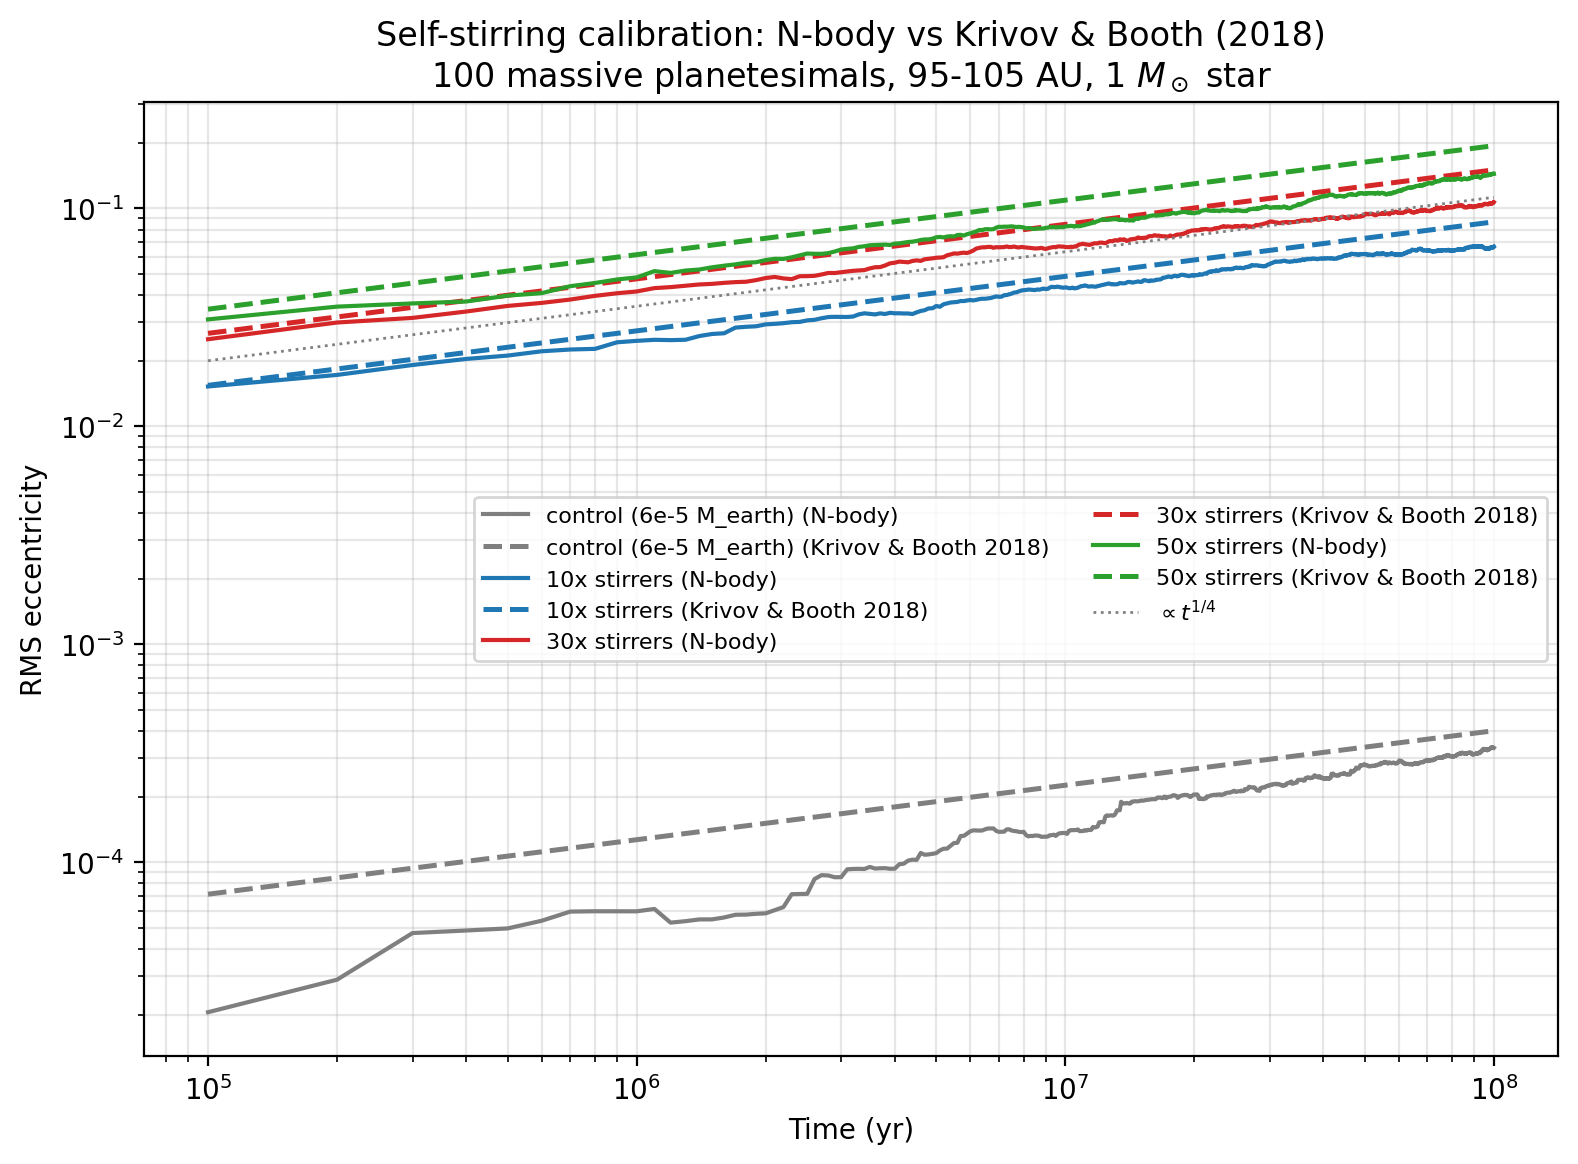
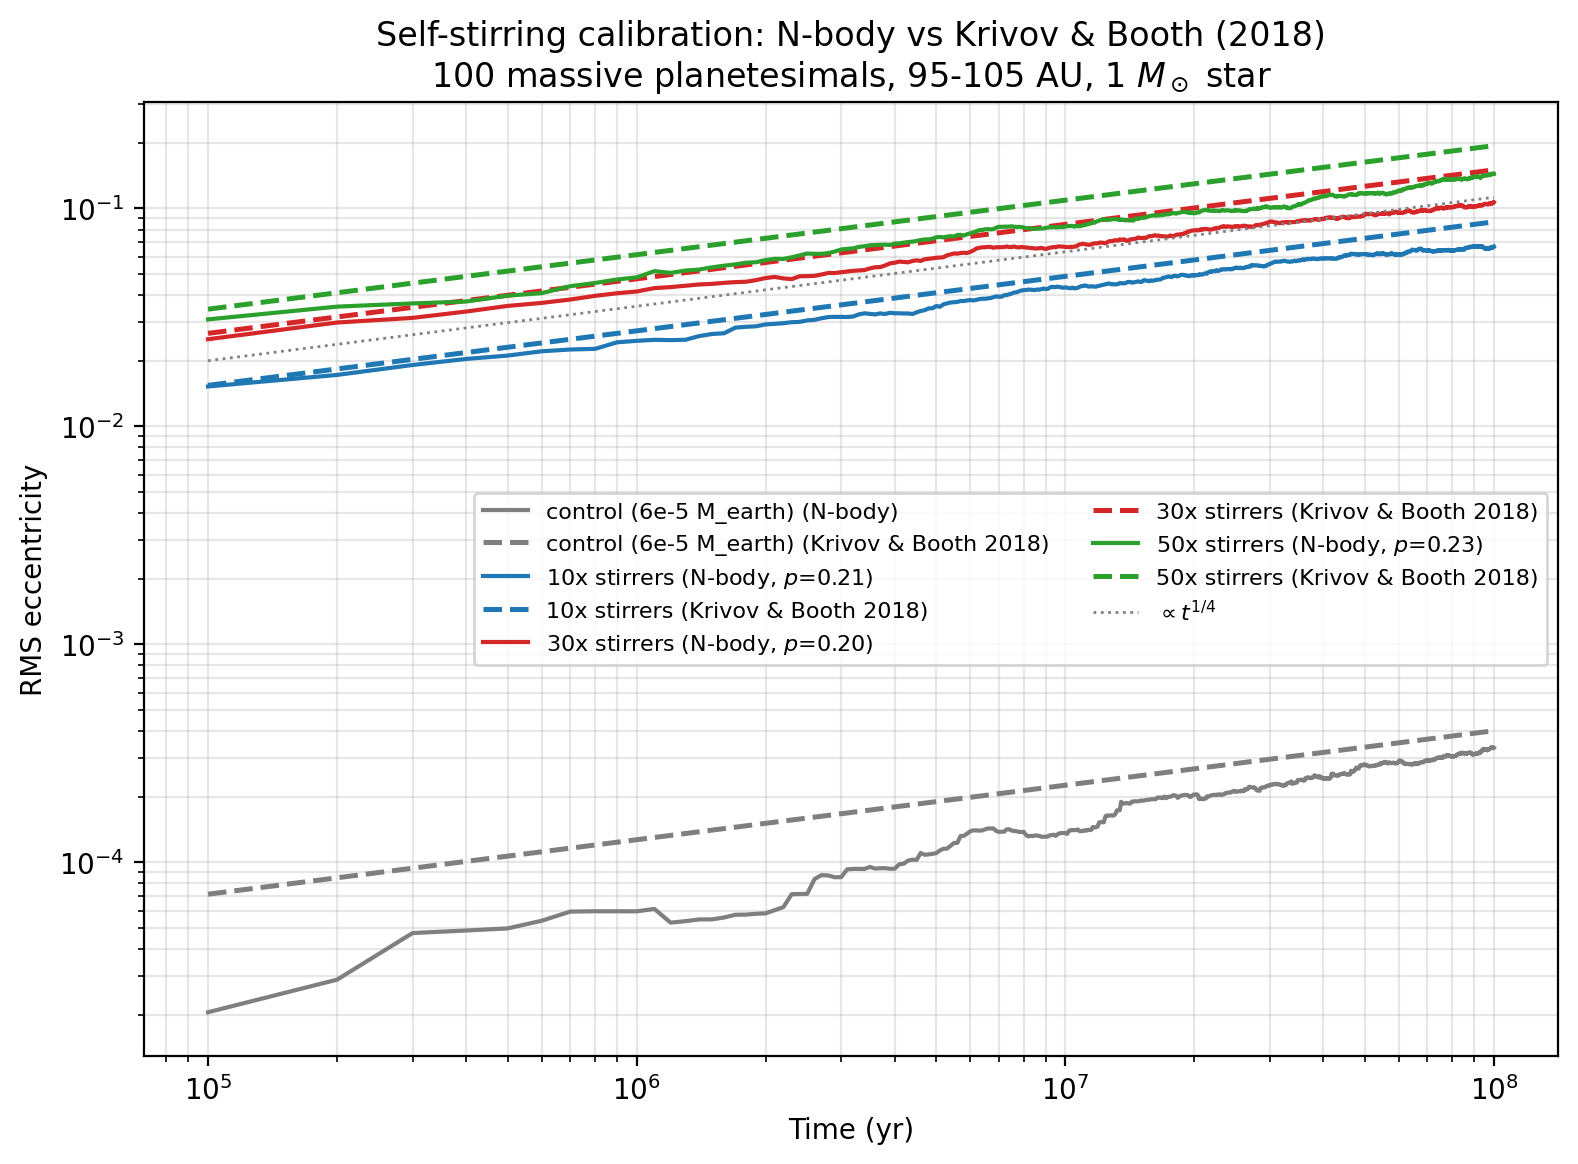
Add power-law fits to the Krivov self-stirring calibration
Fit each N-body RMS(e) curve as e = A t^p (degree-1 log-log polyfit).
The fitted slope goes into the figure legends; the full breakdown
(free fit, split-half slopes, slope-locked p=1/4 refit, raw analytic
residual) is written to a new companion markdown file the script
generates alongside the PNGs.

Claude-Session: https://claude.ai/code/session_01PQb1QESCVaoNf5B1TCTFn8

Changed region(s): [[0.3105, 0.4021, 0.9937, 0.5876]]

diff --git a/calibration/plot_kirvov_calibration.py b/calibration/plot_kirvov_calibration.py
@@ -21,7 +21,13 @@ M = Mdisc / 100 and the measured RMS(e) is that of the stirrer population
 itself. Each run therefore gets its own analytic curve (they differ only by
 the M * Mdisc product, i.e. RMS(e) ~ (M Mdisc)^(1/4)).
 
+Also fits each N-body curve as a power law RMS(e) = A t^p by a degree-1
+polyfit in log-log space; the fitted slope goes into the figure legend and the
+full breakdown into a companion markdown file.
+
 Writes: calibration/rmse_kirvov_calibration.png
+        calibration/rmse_kirvov_calibration_stir_only.png
+        calibration/rmse_kirvov_calibration_fits.md
 """
 
 from pathlib import Path
@@ -66,6 +72,9 @@ FIGURES = {
 N_MP = 100
 SNAPSHOT_STRIDE = 10  # subsample the 10001-snapshot archives for speed
 
+NO_FIT = {"SS_100MP_100Myr_6e-5Mearth"}  # control curve is noise, don't fit it
+FITS_MD = "rmse_kirvov_calibration_fits.md"
+
 
 def rms_e_vs_time(archive_path, stride=SNAPSHOT_STRIDE):
     """RMS eccentricity of the massive planetesimals at each sampled snapshot.
@@ -109,22 +118,61 @@ def krivov_rms_e(times_yr, m_disc_earth, n_stirrers=N_MP):
     return (2.0 * times_yr * t_inv) ** 0.25
 
 
-def make_plot(run_names, save_path):
-    """Draw the calibration figure for the given subset of runs."""
+def powerlaw_fit(times_yr, rms_e, m_disc_earth):
+    """Degree-1 log-log polyfit of RMS(e) vs time, plus reference residuals.
+
+    Returns a dict with the free power-law fit (slope ``p``, amplitude ``a`` in
+    ``e = a t^p``, residual ``rmse`` in dex), the slope over the first and second
+    half of the samples (``p_early`` / ``p_late``, to expose curvature), the
+    amplitude of a slope-locked ``p = 1/4`` fit (``a_025`` / ``rmse_025``), and
+    the residual of the raw Krivov & Booth curve for this run (``rmse_analytic``).
+    """
+    x, y = np.log10(times_yr), np.log10(rms_e)
+
+    p, log_a = np.polyfit(x, y, 1)
+    rmse = float(np.sqrt(np.mean((y - (p * x + log_a)) ** 2)))
+
+    half = len(x) // 2
+    p_early = float(np.polyfit(x[:half], y[:half], 1)[0])
+    p_late = float(np.polyfit(x[half:], y[half:], 1)[0])
+
+    log_a_025 = float(np.mean(y - 0.25 * x))
+    rmse_025 = float(np.sqrt(np.mean((y - (0.25 * x + log_a_025)) ** 2)))
+
+    analytic = np.log10(krivov_rms_e(times_yr, m_disc_earth))
+    rmse_analytic = float(np.sqrt(np.mean((y - analytic) ** 2)))
+
+    return {
+        "p": float(p),
+        "a": float(10.0 ** log_a),
+        "rmse": rmse,
+        "p_early": p_early,
+        "p_late": p_late,
+        "a_025": 10.0 ** log_a_025,
+        "rmse_025": rmse_025,
+        "rmse_analytic": rmse_analytic,
+    }
+
+
+def make_plot(run_names, save_path, series, fits):
+    """Draw the calibration figure for the given subset of runs.
+
+    ``series`` maps run name -> (times, rms_e) with t = 0 already dropped;
+    ``fits`` maps run name -> powerlaw_fit(...) dict for the runs that get one.
+    """
     fig, ax = plt.subplots(figsize=(8, 6))
 
     last_times = None
     for run_name in run_names:
         label, color, m_disc_earth = RUNS[run_name]
-        archive = OUTPUTS / run_name / f"{run_name}.bin"
-        times, rms_e = rms_e_vs_time(archive)
-
-        # drop t = 0 for the log axis
-        mask = times > 0
-        times, rms_e = times[mask], rms_e[mask]
+        times, rms_e = series[run_name]
         last_times = times
 
-        ax.plot(times, rms_e, color=color, lw=1.5, label=f"{label} (N-body)")
+        nbody_label = f"{label} (N-body)"
+        if run_name in fits:
+            nbody_label = f"{label} (N-body, $p$={fits[run_name]['p']:.2f})"
+
+        ax.plot(times, rms_e, color=color, lw=1.5, label=nbody_label)
         ax.plot(
             times,
             krivov_rms_e(times, m_disc_earth),
@@ -156,10 +204,82 @@ def make_plot(run_names, save_path):
     print(f"Saved: {save_path}")
 
 
+def write_fits_markdown(path, fits):
+    """Write the per-run power-law fit breakdown as a markdown file."""
+    lines = [
+        "# Krivov self-stirring calibration: power-law fits",
+        "",
+        "Each N-body RMS(e) curve from `plot_kirvov_calibration.py` fitted as a "
+        "power law `e = A t^p` via a degree-1 `np.polyfit` of `log10(e)` on "
+        "`log10(t)` over the full 1e5-1e8 yr archive (subsampled by "
+        f"`SNAPSHOT_STRIDE = {SNAPSHOT_STRIDE}`). The first- / second-half "
+        "slopes split the samples in time and expose curvature away from a "
+        "single power law. Residuals are RMS of the `log10(e)` misfit, in dex.",
+        "",
+        "## Free power-law fit",
+        "",
+        "| run | slope $p$ | amplitude $A$ | residual (dex) | $p$ (first half) | $p$ (second half) |",
+        "| --- | --- | --- | --- | --- | --- |",
+    ]
+    for run_name, f in fits.items():
+        label = RUNS[run_name][0]
+        lines.append(
+            f"| {label} | {f['p']:.3f} | {f['a']:.3e} | {f['rmse']:.3f} "
+            f"| {f['p_early']:.3f} | {f['p_late']:.3f} |"
+        )
+
+    lines += [
+        "",
+        "## Slope locked to the analytic $p = 1/4$",
+        "",
+        "| run | $A$ at $p = 1/4$ | residual (dex) | raw Krivov & Booth residual (dex) |",
+        "| --- | --- | --- | --- |",
+    ]
+    for run_name, f in fits.items():
+        label = RUNS[run_name][0]
+        lines.append(
+            f"| {label} | {f['a_025']:.3e} | {f['rmse_025']:.3f} "
+            f"| {f['rmse_analytic']:.3f} |"
+        )
+
+    lines += [
+        "",
+        "The fitted slopes sit just below the analytic 1/4 (~0.20-0.23). "
+        "Locking the slope to 1/4 and refitting only the amplitude matches the "
+        "N-body curves to ~0.02 dex, versus ~0.08-0.14 dex for the un-rescaled "
+        "Krivov & Booth curve -- the analytic law has the right time dependence "
+        "but overpredicts the normalisation.",
+        "",
+        "_Generated by `calibration/plot_kirvov_calibration.py`._",
+        "",
+    ]
+
+    Path(path).write_text("\n".join(lines))
+    print(f"Saved: {path}")
+
+
 def main():
     out_dir = Path(__file__).resolve().parent
-    for filename, run_names in FIGURES.items():
-        make_plot(run_names, out_dir / filename)
+
+    plotted = {r for names in FIGURES.values() for r in names}
+    series = {}
+    for run_name in RUNS:  # RUNS is insertion-ordered -> stable table order
+        if run_name not in plotted:
+            continue
+        archive = OUTPUTS / run_name / f"{run_name}.bin"
+        times, rms_e = rms_e_vs_time(archive)
+        mask = times > 0  # drop t = 0 for the log axis
+        series[run_name] = (times[mask], rms_e[mask])
+
+    fits = {
+        r: powerlaw_fit(*series[r], RUNS[r][2])
+        for r in series
+        if r not in NO_FIT
+    }
+
+    for filename, names in FIGURES.items():
+        make_plot(names, out_dir / filename, series, fits)
+    write_fits_markdown(out_dir / FITS_MD, fits)
 
 
 if __name__ == "__main__":

diff --git a/calibration/rmse_kirvov_calibration_fits.md b/calibration/rmse_kirvov_calibration_fits.md
@@ -1,0 +1,23 @@
+# Krivov self-stirring calibration: power-law fits
+
+Each N-body RMS(e) curve from `plot_kirvov_calibration.py` fitted as a power law `e = A t^p` via a degree-1 `np.polyfit` of `log10(e)` on `log10(t)` over the full 1e5-1e8 yr archive (subsampled by `SNAPSHOT_STRIDE = 10`). The first- / second-half slopes split the samples in time and expose curvature away from a single power law. Residuals are RMS of the `log10(e)` misfit, in dex.
+
+## Free power-law fit
+
+| run | slope $p$ | amplitude $A$ | residual (dex) | $p$ (first half) | $p$ (second half) |
+| --- | --- | --- | --- | --- | --- |
+| 10x stirrers | 0.212 | 1.389e-03 | 0.012 | 0.237 | 0.127 |
+| 30x stirrers | 0.197 | 2.819e-03 | 0.007 | 0.206 | 0.178 |
+| 50x stirrers | 0.228 | 2.097e-03 | 0.013 | 0.212 | 0.334 |
+
+## Slope locked to the analytic $p = 1/4$
+
+| run | $A$ at $p = 1/4$ | residual (dex) | raw Krivov & Booth residual (dex) |
+| --- | --- | --- | --- |
+| 10x stirrers | 7.212e-04 | 0.020 | 0.083 |
+| 30x stirrers | 1.120e-03 | 0.024 | 0.130 |
+| 50x stirrers | 1.422e-03 | 0.016 | 0.136 |
+
+The fitted slopes sit just below the analytic 1/4 (~0.20-0.23). Locking the slope to 1/4 and refitting only the amplitude matches the N-body curves to ~0.02 dex, versus ~0.08-0.14 dex for the un-rescaled Krivov & Booth curve -- the analytic law has the right time dependence but overpredicts the normalisation.
+
+_Generated by `calibration/plot_kirvov_calibration.py`._

diff --git a/calibration/README.md b/calibration/README.md
@@ -23,6 +23,10 @@ with `C_e = 40`, `Omega = sqrt(G Mstar / a^3)` at the belt centre
 
 Only the control and the 10x / 30x / 50x runs exist so far (no 20x / 40x).
 
+Each N-body curve is also fitted as a power law `e = A t^p` (degree-1 log-log
+polyfit); the fitted slope `p` is shown in the N-body legend labels and the full
+breakdown is written to `rmse_kirvov_calibration_fits.md`.
+
 Run:
 
 ```
@@ -33,5 +37,7 @@ Outputs:
 
 - `calibration/rmse_kirvov_calibration.png` — control + 10x / 30x / 50x
 - `calibration/rmse_kirvov_calibration_stir_only.png` — 10x / 30x / 50x only
+- `calibration/rmse_kirvov_calibration_fits.md` — log-log power-law fits of the
+  three N-body curves (slope vs analytic 1/4, amplitude offset)
 
 Edit the `FIGURES` dict in the script to change which runs land on which figure.
